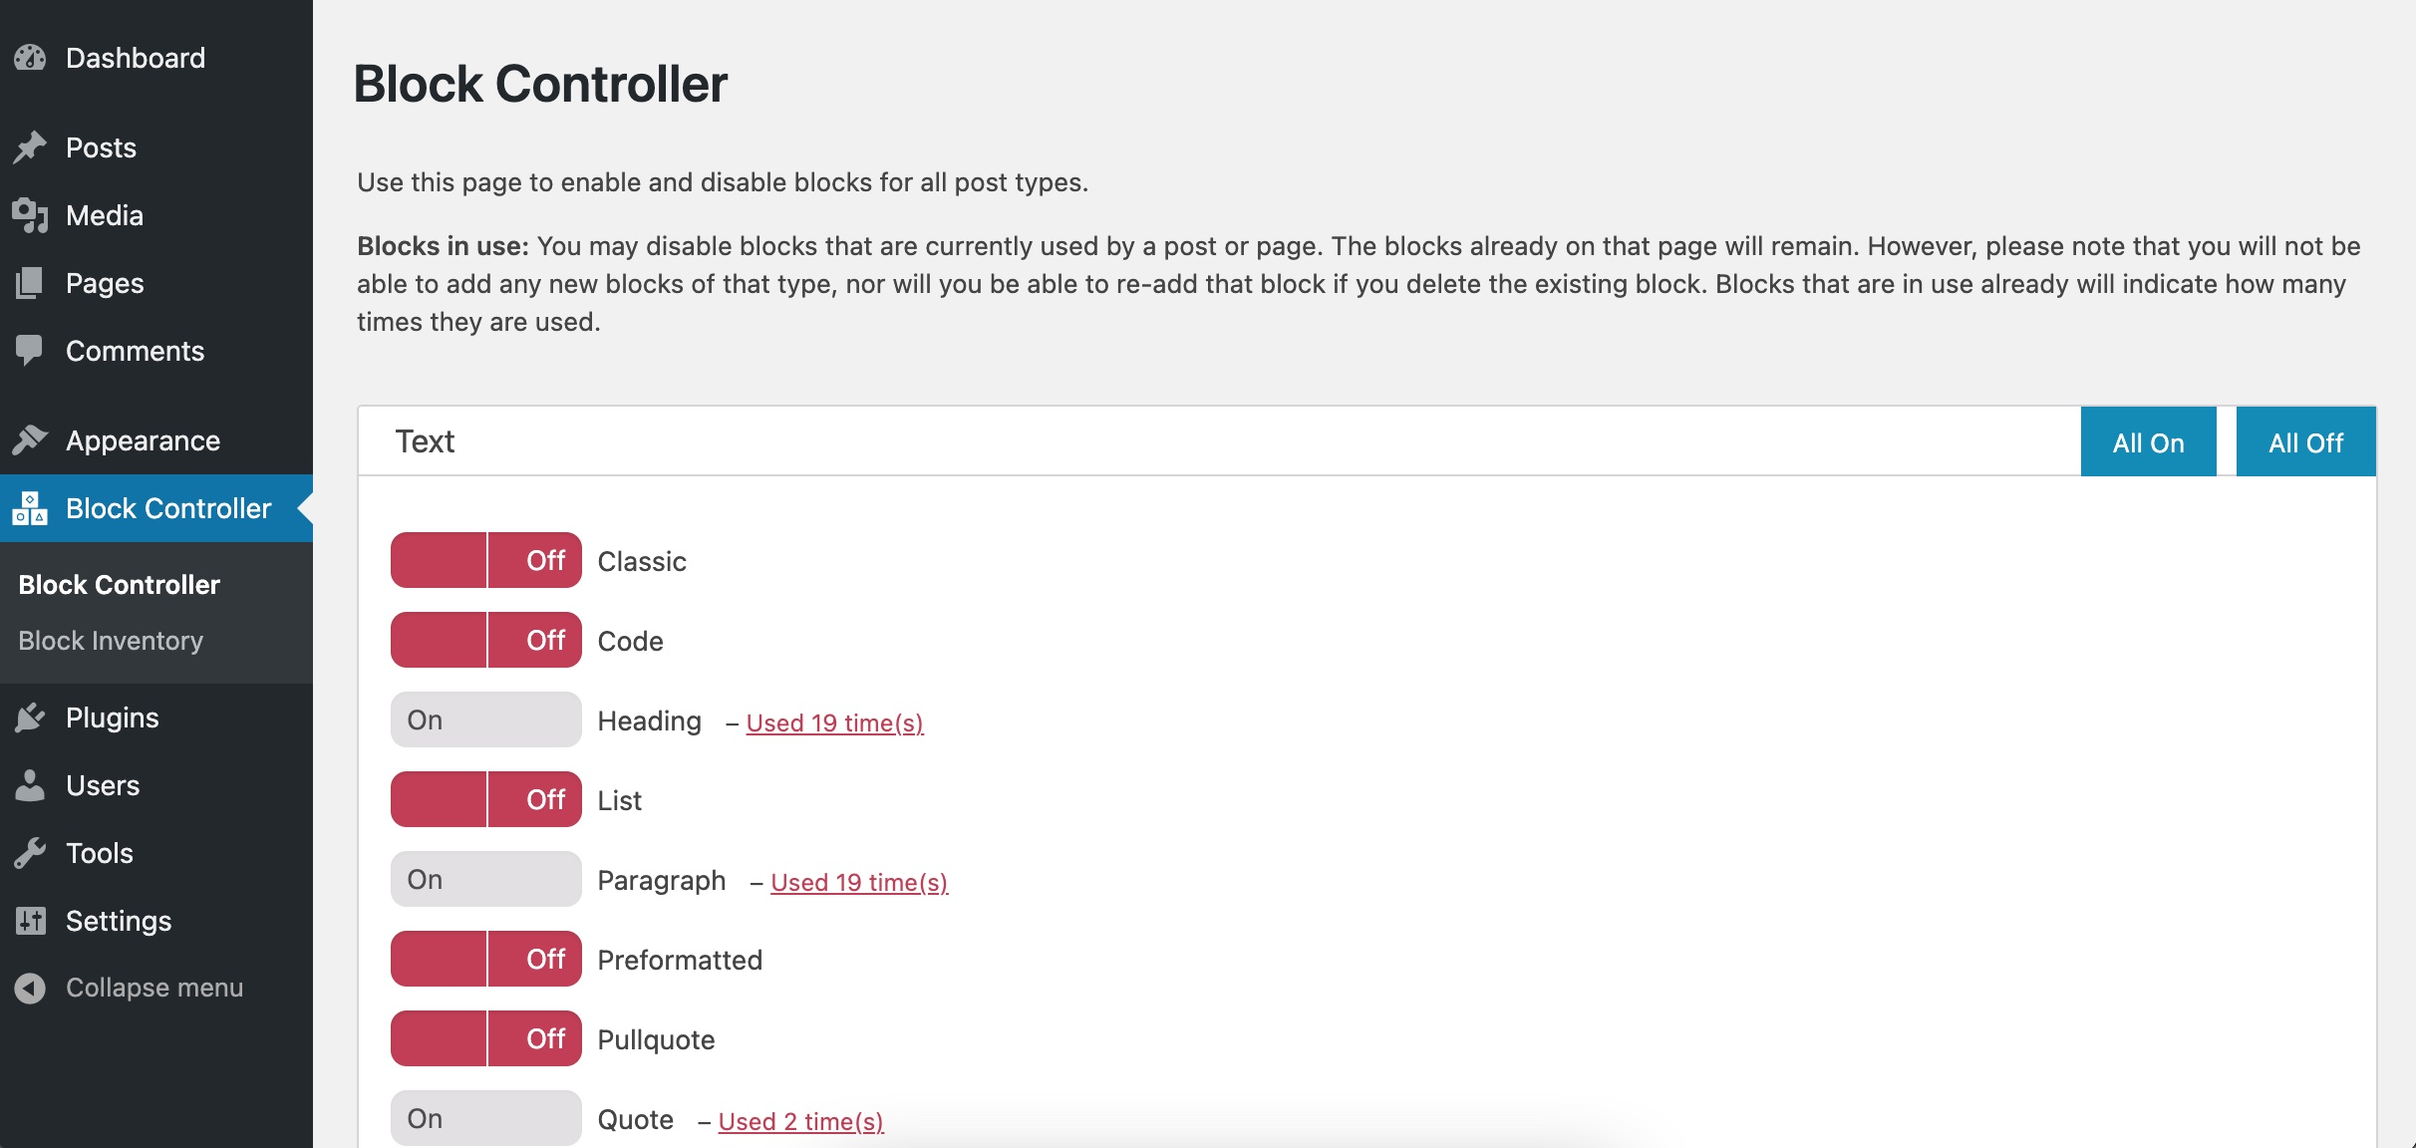
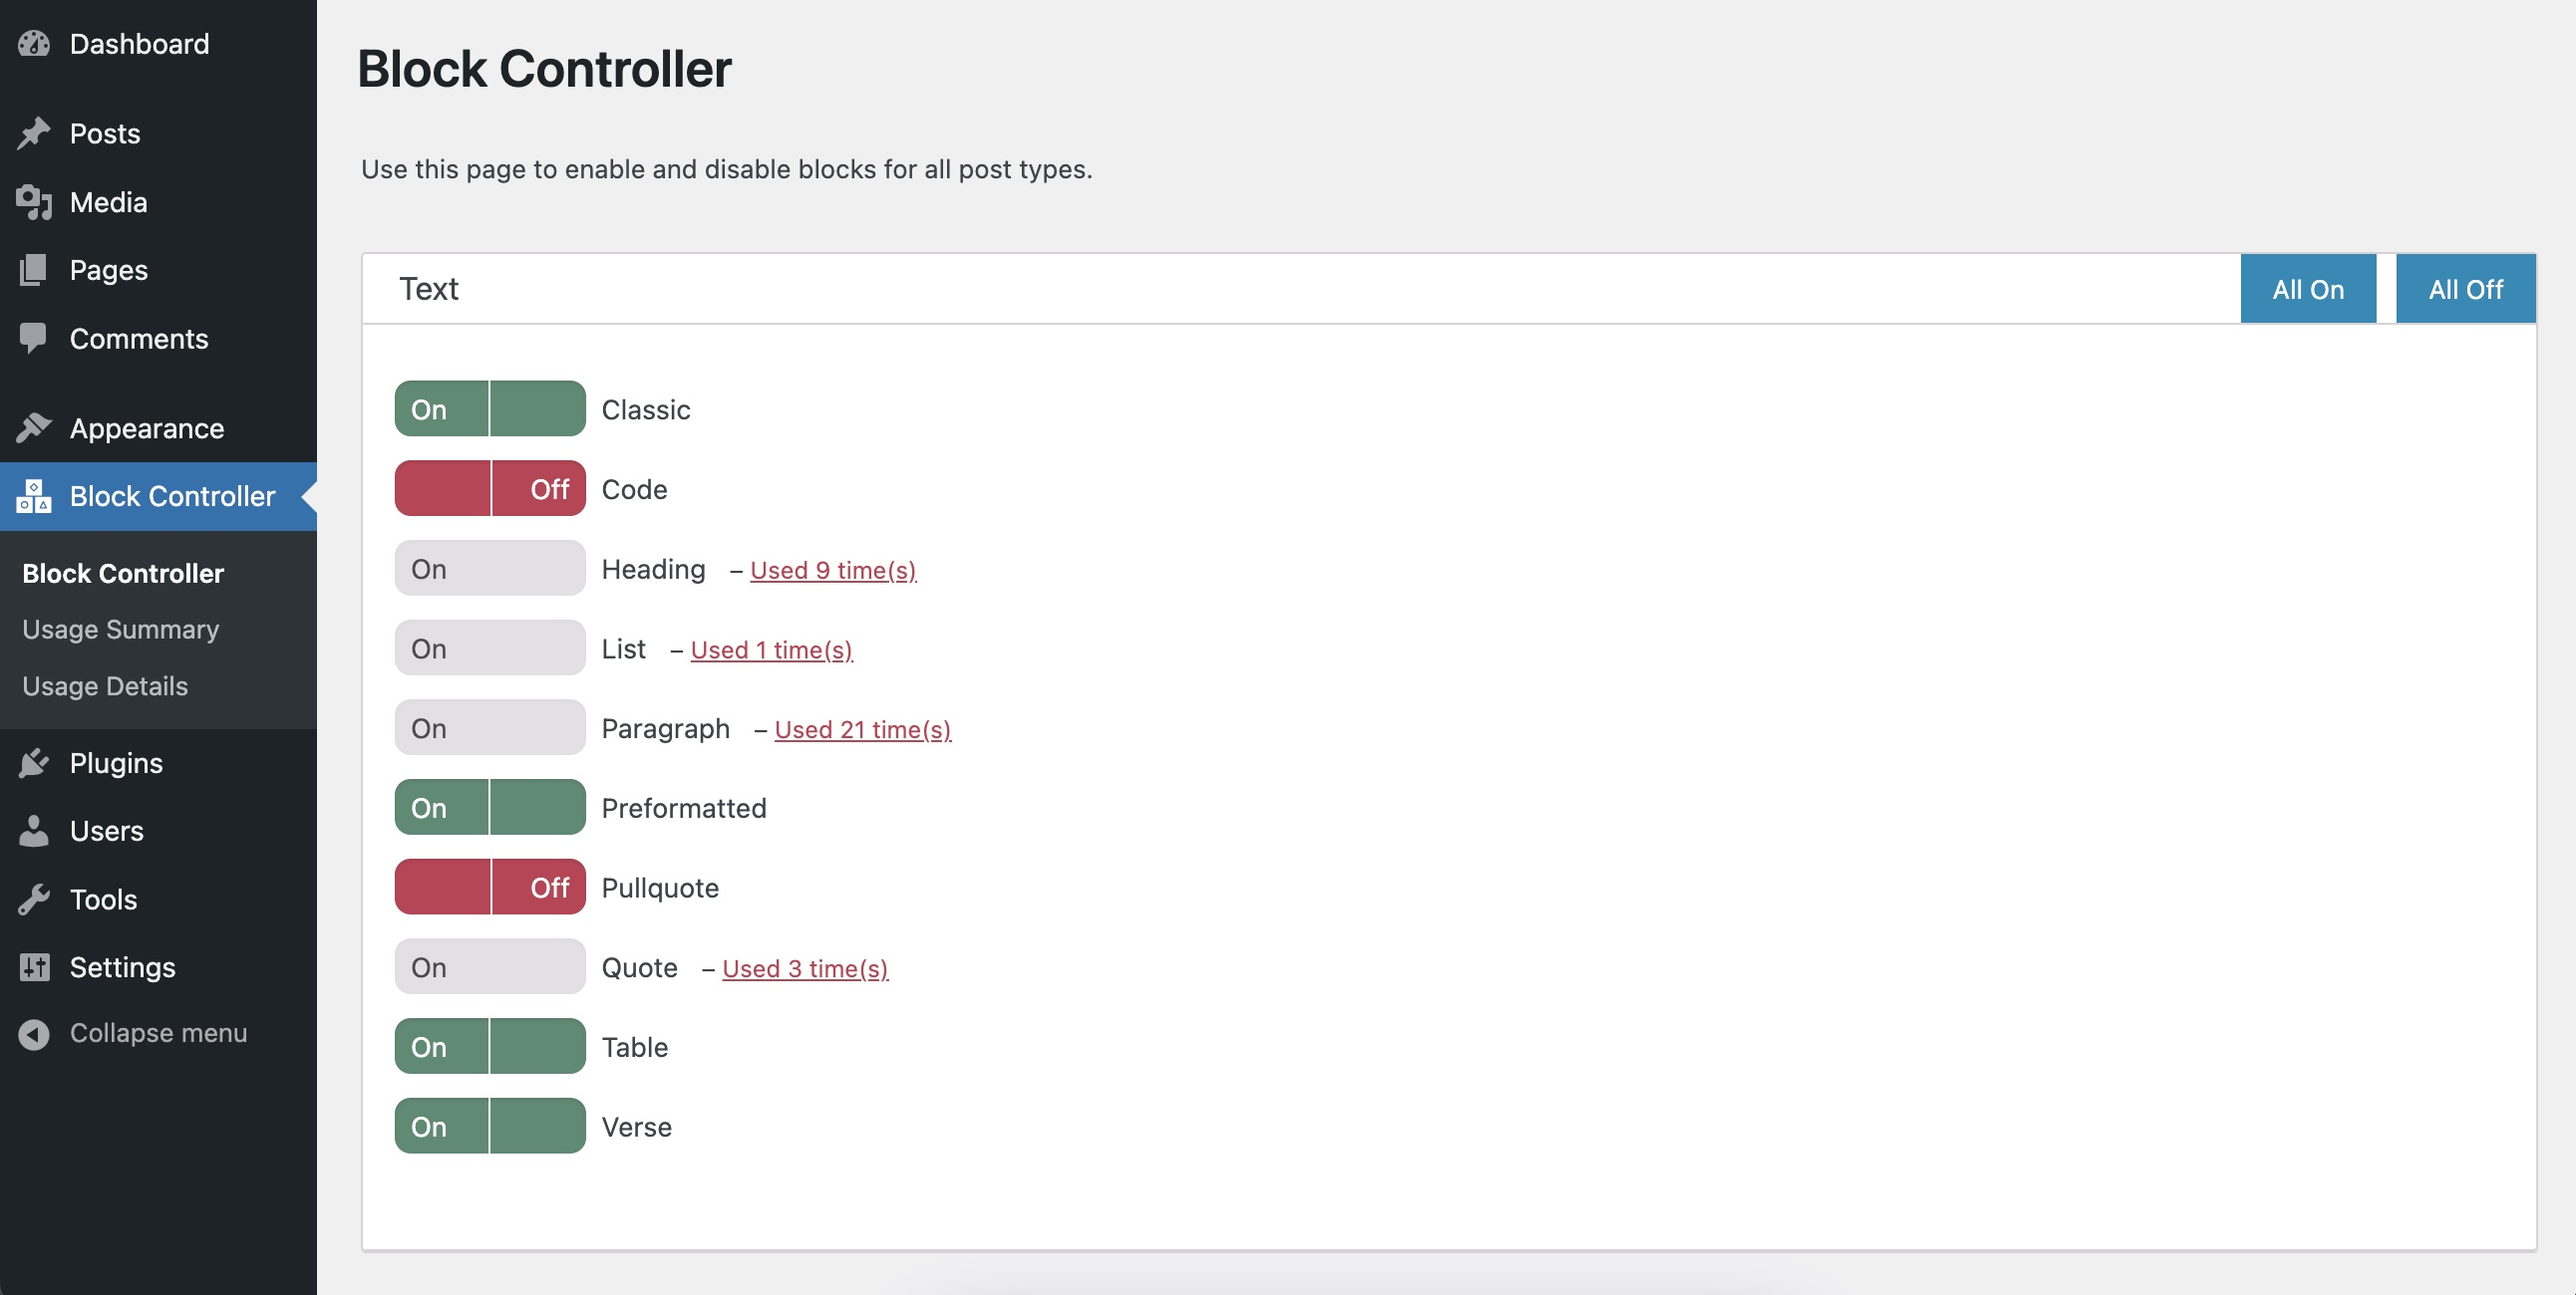
Block controller updates, mostly screenshots

diff --git a/coding/plugins/block-controller/index.md b/coding/plugins/block-controller/index.md
@@ -5,7 +5,7 @@ redirect_from:
   - /work/block-controller/
 ---
 
-This WordPress plugin provides site administrators with the ability to turn on and off specific post editor (Gutenberg) content blocks.
+This WordPress plugin allows site administrators to control editor access to content blocks.
 
 [Download from WordPress](https://wordpress.org/plugins/block-controller/){:.button}
 [View on GitHub](https://github.com/thatdevgirl/block-controller){:.button .icon .icon-github}
@@ -25,12 +25,22 @@ In addition, this plugin generates a list of all blocks in use by the site. A co
 <div class="plugin-screenshots">
   <figure>
     <img src="/assets/images/block-controller-screenshot-1.jpg" alt="">
-    <figcaption>Screenshot of the Block Controller admin screen where an editor can turn on and off post editor blocks.</figcaption>
+    <figcaption>The main settings page, where site administrators can enable and disable blocks. This page highlights blocks that are already in use.</figcaption>
   </figure>
 
   <figure>
     <img src="/assets/images/block-controller-screenshot-2.jpg" alt="">
-    <figcaption>Screenshot of the Block Controller admin screen where an editor can see a list of posts used by each block.</figcaption>
+    <figcaption>The block usage summary page, which displays a quick view of the blocks used on the site. This page enumerates the number of instances of each block throughout the site and the number of pages each block is used on.</figcaption>
+  </figure>
+
+  <figure>
+    <img src="/assets/images/block-controller-screenshot-3.jpg" alt="">
+    <figcaption>The block usage details page for all blocks. This page display all blocks used throughout the site and a linked list of the pages each block is used on.</figcaption>
+  </figure>
+
+  <figure>
+    <img src="/assets/images/block-controller-screenshot-4.jpg" alt="">
+    <figcaption>The block usage details page for a single block. This page is similar to the details page for all blocks, but includes only the information for a single block.</figcaption>
   </figure>
 </div>
 </section>
